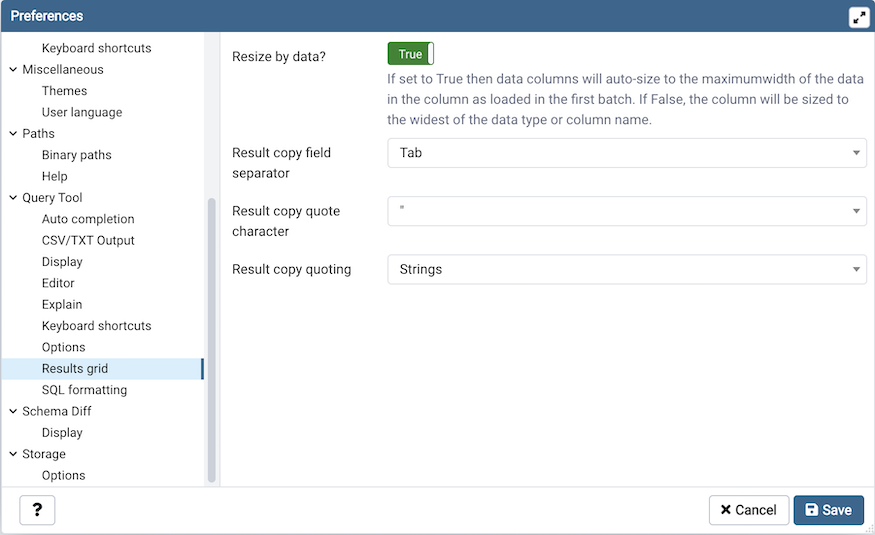
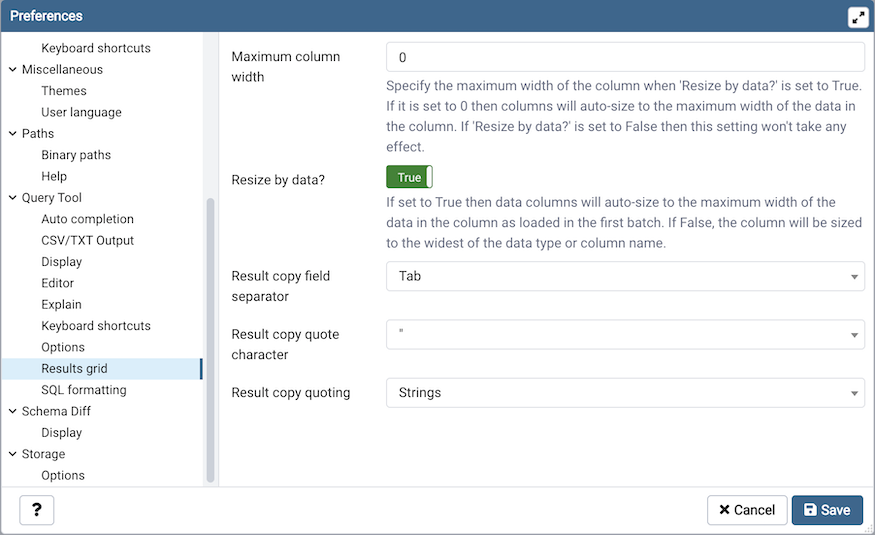
Added option to provide maximum width of the column when 'Resize by data?’ option in the preferences is set to True. Fixes #6559

diff --git a/web/pgadmin/static/js/slickgrid/plugins/slick.autocolumnsize.js b/web/pgadmin/static/js/slickgrid/plugins/slick.autocolumnsize.js
@@ -39,7 +39,7 @@
       }
     }
 
-    function resizeAllColumns() {
+    function resizeAllColumns(maxWidth) {
       var elHeaders = $container.find('.slick-header-column');
       var allColumns = grid.getColumns();
       elHeaders.each(function(index, el) {
@@ -53,6 +53,10 @@
         var colIndex = grid.getColumnIndex(columnDef.id);
         var column = allColumns[colIndex];
         var autoSizeWidth = Math.max(headerWidth, getMaxColumnTextWidth(columnDef, colIndex)) + 1;
+        // If max width is provided and it is greater than 0
+        if (typeof(maxWidth) !== 'undefined' && maxWidth > 0) {
+          autoSizeWidth = Math.min(maxWidth, autoSizeWidth);
+        }
         column.width = autoSizeWidth + (columnDef.addWidth || 0);
       });
       grid.setColumns(allColumns);

diff --git a/web/pgadmin/tools/sqleditor/static/js/sqleditor.js b/web/pgadmin/tools/sqleditor/static/js/sqleditor.js
@@ -1189,7 +1189,7 @@ define('tools.querytool', [
         grid.render();
         // Resize all columns if column_data_auto_resize is true.
         if (self.preferences.column_data_auto_resize) {
-          grid.resizeAllColumns && grid.resizeAllColumns();
+          grid.resizeAllColumns && grid.resizeAllColumns(self.preferences.column_data_max_width);
         }
       });
 

diff --git a/web/pgadmin/tools/sqleditor/utils/query_tool_preferences.py b/web/pgadmin/tools/sqleditor/utils/query_tool_preferences.py
@@ -273,10 +273,23 @@ def register_query_tool_preferences(self):
         gettext("Resize by data?"), 'boolean', True,
         category_label=PREF_LABEL_RESULTS_GRID,
         help_str=gettext(
-            'If set to True then data columns will auto-size to the maximum'
+            'If set to True then data columns will auto-size to the maximum '
             'width of the data in the column as loaded in the first batch. If '
             'False, the column will be sized to the widest of the data type '
             'or column name.'
+        )
+    )
+
+    self.column_data_max_width = self.preference.register(
+        'Results_grid', 'column_data_max_width',
+        gettext("Maximum column width"), 'integer', 0,
+        category_label=PREF_LABEL_RESULTS_GRID,
+        help_str=gettext(
+            'Specify the maximum width of the column when \'Resize by data?\' '
+            'is set to True. If it is set to 0 then columns will auto-size to '
+            'the maximum width of the data in the column. If '
+            '\'Resize by data?\' is set to False then this setting won\'t '
+            'take any effect.'
         )
     )
 

diff --git a/docs/en_US/preferences.rst b/docs/en_US/preferences.rst
@@ -374,6 +374,10 @@ Use the fields on the *Options* panel to manage editor preferences.
 Use the fields on the *Results grid* panel to specify your formatting
 preferences for copied data.
 
+* Specify the maximum width of the column when 'Resize by data?' is set to True.
+  If it is set to 0 then columns will auto-size to the maximum width of the data
+  in the column. If 'Resize by data?' is set to False then this setting won't
+  take any effect.
 * When the *Resize by data?* switch is set to *True*, then data columns will
   auto-size to the maximum width of the data in the column as loaded in the
   first batch. If False, the column will be sized to the widest of the data

diff --git a/docs/en_US/release_notes_5_5.rst b/docs/en_US/release_notes_5_5.rst
@@ -10,6 +10,7 @@ New features
 ************
 
 | `Issue #3920 <https://redmine.postgresql.org/issues/3920>`_ -  Do not block the query editor window when running a query.
+| `Issue #6559 <https://redmine.postgresql.org/issues/6559>`_ -  Added option to provide maximum width of the column when 'Resize by data?’ option in the preferences is set to True.
 
 Housekeeping
 ************
